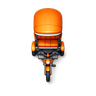
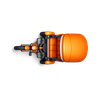
fix(driver): triciclo marker rotation (canonical) + camera bouncing (Uber Pro)
User reportó 2 bugs en el mapa del driver durante un viaje in_progress:

1. **Triciclo marker NO sigue la dirección de movimiento.** Las 3 screenshots
   muestran el triciclo apuntando hacia abajo aunque las calles van en
   direcciones distintas (Industria horizontal, San Lázaro horizontal,
   Malecón vertical).

   Causa raíz verificada: el asset triciclo.png estaba dibujado apuntando
   ESTE (90°), pero el código en markers.ts asumía que apuntaba SUR (180°)
   y aplicaba offset 180°. Resultado: heading=0° (driver norte) → rotation
   = (0+180)%360 = 180° → asset(east) rotado 180° = pointing WEST. El
   marker estaba consistentemente fuera por 90°.

   Otros vehicles (moto, auto_clasico, confort) ya seguían la convención
   "point UP" con offset 0°.

   **Fix canónico** (elegido sobre el "fix rápido TS" para escalabilidad):
   - Re-exportar triciclo.png + @2x + @3x rotados 90° CCW (now point UP)
   - Remover entry `triciclo: 180` de VEHICLE_MARKER_ROTATION_OFFSET_DEG
     (queda dictionary vacío — toda la flota ahora sigue la convención)
   - Update comments en markers.ts y RideMapView.tsx
   - Tests del helper (5 nuevos casos)

2. **Mapa hace zoom in/out bouncing durante in_progress.** Race condition
   entre `cameraRef.fitBounds(600ms)` imperative + `<Camera>` declarative
   easeTo(1000ms), ambos disparados cada GPS update (1s).

   Causa raíz: el bounds memo recomputaba cada GPS update incluso cuando
[…]

Changed region(s): [[0.125, 0.0625, 0.9375, 0.875]]

diff --git a/apps/driver/src/components/RideMapView.tsx b/apps/driver/src/components/RideMapView.tsx
@@ -893,8 +893,13 @@ function RideMapViewInner(
     };
   }, [surgeZones]);
 
-  // Compute camera bounds
+  // Compute camera bounds — only when overview mode (followMode=false).
+  // Skipping during followMode avoids the per-GPS-update recompute that
+  // forced re-renders (and the now-removed fitBounds) every second
+  // during in-progress trips. Pre-trip phases (accepted, arrived_at_*)
+  // typically have followMode=false → bounds still compute as before.
   const bounds = useMemo(() => {
+    if (followMode) return null;
     const allCoords: [number, number][] = [];
     if (routeCoordinates && routeCoordinates.length > 0) {
       routeCoordinates.forEach((c) => allCoords.push(toCoord(c)));
@@ -905,7 +910,7 @@ function RideMapViewInner(
     if (driverLocation) allCoords.push(toCoord(driverLocation));
     if (allCoords.length < 2) return null;
     return computeBounds(allCoords);
-  }, [pickupLocation, dropoffLocation, driverLocation, routeCoordinates]);
+  }, [pickupLocation, dropoffLocation, driverLocation, routeCoordinates, followMode]);
 
   // BUG-218: force imperative fitBounds whenever bounds change. Mapbox's
   // declarative <Camera bounds=...> prop sometimes doesn't re-fit on hot
@@ -1031,12 +1036,15 @@ function RideMapViewInner(
       case 'driver_en_route':
         // Nav phase: 3D perspective, heading-up navigation. Closer zoom
         // (16.5) than the previous 15.5 so individual streets are visible.
+        // animationDuration 800ms (was 1000ms) so each ease-to completes
+        // BEFORE the next GPS update fires (1000ms watch interval) —
+        // avoiding the race where in-flight animations get interrupted.
         return {
           centerCoordinate: driverCoord,
           zoomLevel: 16.5,
           pitch: 45,
           heading,
-          animationDuration: 1000,
+          animationDuration: 800,
           animationMode: 'easeTo' as const,
         };
       case 'arrived_at_pickup':
@@ -1386,12 +1394,14 @@ function RideMapViewInner(
                 <View
                   style={{
                     transform: [
-                      // 0=N, 90=E, 180=S, 270=W. Most marker assets point UP
-                      // (north) at rotation 0°. The triciclo asset is the
-                      // exception — drawn with the driver/handlebar pointing
-                      // south. BUG-295: vehicleMarkerRotationOffset() adds
-                      // +180° for triciclo so the rendered rotation aligns
-                      // with the bearing of motion. Other vehicles → 0.
+                      // 0=N, 90=E, 180=S, 270=W. All stock marker assets
+                      // (triciclo, moto, auto_clasico, confort) point UP
+                      // (north) at rotation 0°, so the rendered rotation
+                      // equals the bearing of motion directly.
+                      // `vehicleMarkerRotationOffset()` exists for future
+                      // non-standard assets but currently returns 0 for
+                      // the entire fleet (BUG-295 resolved by re-exporting
+                      // triciclo.png pointing north).
                       {
                         rotate: `${
                           (vehicleType && NON_ROTATING_MARKERS.has(vehicleType))

diff --git a/packages/utils/src/markers.ts b/packages/utils/src/markers.ts
@@ -1,40 +1,33 @@
 // ============================================================
 // TriciGo — Vehicle marker rotation utilities
 //
-// BUG-295: per-vehicle-type rotation offset (degrees) that compensates
-// for marker assets drawn with non-standard "front pointing" convention.
-//
-// Convention: marker PNGs SHOULD be drawn with the front of the vehicle
+// Convention: ALL marker PNGs are drawn with the front of the vehicle
 // pointing UP (north / 0°). Code then applies `rotate: bearingDeg` to
-// align the nose with direction of travel.
+// align the nose with direction of travel. No per-vehicle offsets are
+// needed for the standard fleet (`triciclo`, `auto_clasico`, `moto`,
+// `confort`).
 //
-// Exception: `triciclo.png` is drawn with the driver/handlebar (= front
-// of the vehicle, direction of motion) pointing DOWN (south / 180°),
-// while the cargo box / passenger compartment occupies the upper half
-// of the image. Until the asset is re-exported with the conventional
-// orientation we compensate by adding 180° at render time. This makes
-// the marker visually face the same direction as the route polyline
-// underneath it.
-//
-// Other vehicle markers (auto_clasico, moto, confort) are correctly
-// drawn with their front pointing up — their offset is 0.
+// History (BUG-295 → resolved): `triciclo.png` was originally drawn
+// pointing east (90°), which broke the convention and caused a visible
+// "marker faces wrong way" bug during in-progress trips. The PNG asset
+// was re-exported pointing north (rotated 90° CCW) and the prior
+// `triciclo: 180` offset entry removed in this same change. Future
+// non-standard assets can be compensated by adding an entry here.
 //
 // Mensajería is excluded from rotation entirely via the consumer-side
 // `NON_ROTATING_MARKERS` set; it doesn't need an offset because it's
 // never rotated.
-//
-// Future: if `triciclo.png` is re-exported pointing up, delete the
-// triciclo entry from VEHICLE_MARKER_ROTATION_OFFSET_DEG (and note
-// the asset fix in the changelog).
 // ============================================================
 
-/** Per vehicle-type rotation offset in degrees. */
-export const VEHICLE_MARKER_ROTATION_OFFSET_DEG: Record<string, number> = {
-  // BUG-295: triciclo PNG drawn pointing south (driver/handlebar at
-  // bottom of image, cargo box at top). Add 180° so the rendered
-  // rotation aligns with the bearing of motion.
-  triciclo: 180,
-};
+/**
+ * Per vehicle-type rotation offset in degrees. Empty by default —
+ * all stock fleet assets follow the "point UP" convention.
+ *
+ * Add an entry here ONLY if a new asset is delivered in a non-standard
+ * orientation AND can't be re-exported. Adding offsets is technical
+ * debt; prefer fixing the asset itself.
+ */
+export const VEHICLE_MARKER_ROTATION_OFFSET_DEG: Record<string, number> = {};
 
 /**
  * Returns the rotation offset (in degrees) to apply for a given

diff --git a/packages/utils/src/__tests__/markers.test.ts b/packages/utils/src/__tests__/markers.test.ts
@@ -1,0 +1,53 @@
+import { describe, it, expect } from 'vitest';
+import { vehicleMarkerRotationOffset, VEHICLE_MARKER_ROTATION_OFFSET_DEG } from '../markers';
+
+describe('VEHICLE_MARKER_ROTATION_OFFSET_DEG', () => {
+  it('is empty by default — all stock fleet PNGs follow the "point UP" convention', () => {
+    // BUG-295 resolved: triciclo.png was re-exported pointing north, so
+    // the prior `triciclo: 180` entry is gone. The dictionary should
+    // stay empty unless a future non-standard asset enters the fleet.
+    expect(Object.keys(VEHICLE_MARKER_ROTATION_OFFSET_DEG)).toEqual([]);
+  });
+});
+
+describe('vehicleMarkerRotationOffset', () => {
+  it('returns 0 for triciclo (post BUG-295 asset fix)', () => {
+    // Previously returned 180° to compensate for an east-pointing PNG.
+    // The asset was rotated 90° CCW (now points north) and the offset
+    // removed. If you ever see this assertion fail with 180, the asset
+    // was reverted — re-rotate it before changing this test.
+    expect(vehicleMarkerRotationOffset('triciclo')).toBe(0);
+  });
+
+  it('returns 0 for all standard vehicles', () => {
+    expect(vehicleMarkerRotationOffset('moto')).toBe(0);
+    expect(vehicleMarkerRotationOffset('auto')).toBe(0);
+    expect(vehicleMarkerRotationOffset('auto_clasico')).toBe(0);
+    expect(vehicleMarkerRotationOffset('confort')).toBe(0);
+  });
+
+  it('returns 0 for unknown / nullish vehicle types', () => {
+    expect(vehicleMarkerRotationOffset('unknown_vehicle')).toBe(0);
+    expect(vehicleMarkerRotationOffset(null)).toBe(0);
+    expect(vehicleMarkerRotationOffset(undefined)).toBe(0);
+    expect(vehicleMarkerRotationOffset('')).toBe(0);
+  });
+
+  it('would return a custom offset if one were registered (extension point)', () => {
+    // Sanity check the lookup table still works for future non-standard
+    // assets. NOT registered in the live dictionary, but we test the
+    // lookup mechanism by temporarily injecting one.
+    const original = (VEHICLE_MARKER_ROTATION_OFFSET_DEG as Record<string, number>)['weird_asset'];
+    try {
+      (VEHICLE_MARKER_ROTATION_OFFSET_DEG as Record<string, number>)['weird_asset'] = 45;
+      expect(vehicleMarkerRotationOffset('weird_asset')).toBe(45);
+    } finally {
+      // Restore — don't leak test state into other tests.
+      if (original === undefined) {
+        delete (VEHICLE_MARKER_ROTATION_OFFSET_DEG as Record<string, number>)['weird_asset'];
+      } else {
+        (VEHICLE_MARKER_ROTATION_OFFSET_DEG as Record<string, number>)['weird_asset'] = original;
+      }
+    }
+  });
+});
